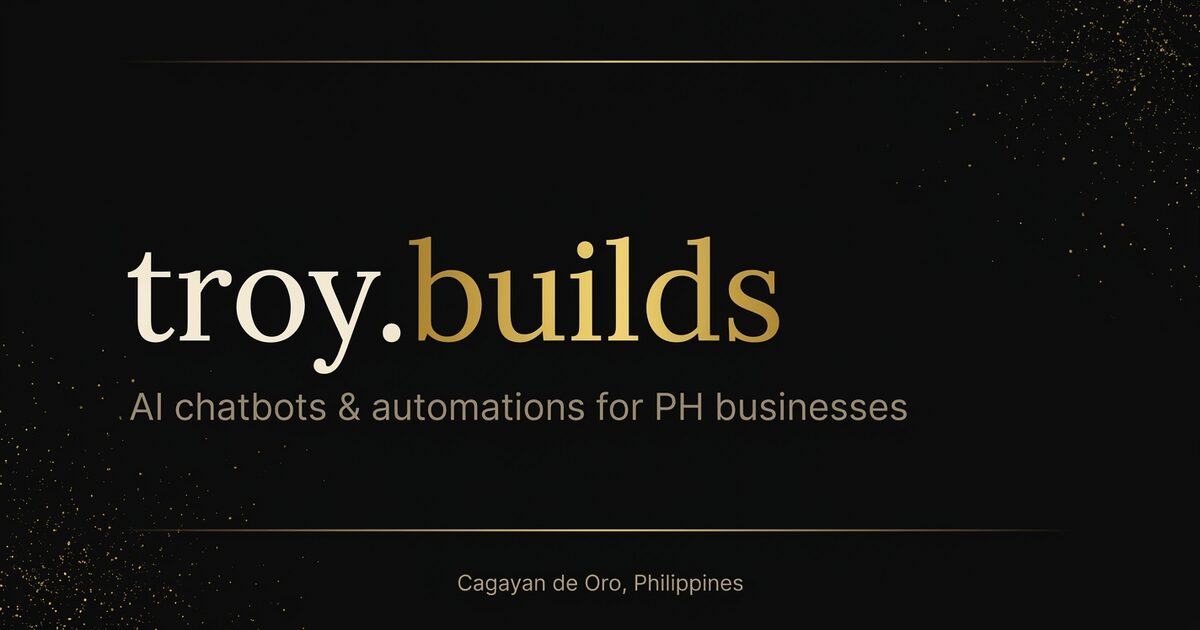
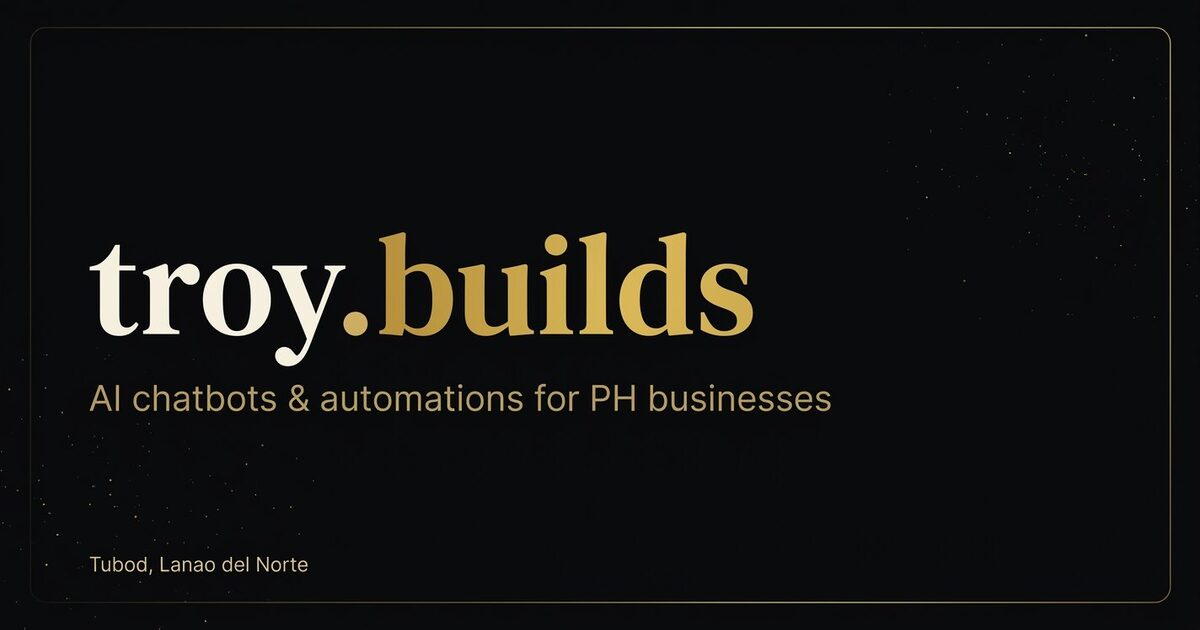
Move Troy's location from Cagayan de Oro to Tubod, LDN
Update the portfolio, demo shop, share card, and outreach copy so
everything says Tubod, Lanao del Norte instead of CDO.

diff --git a/index.html b/index.html
@@ -22,8 +22,8 @@
   <meta name="viewport" content="width=device-width, initial-scale=1.0" />
   <!-- TEACH: <title> + meta description = what people see on Google/FB shares -->
   <!-- ✏ EDIT ME: put your name here -->
-  <title>Troy — AI Automation & Video Editing | Cagayan de Oro</title>
-  <meta name="description" content="I build AI chatbots, business automations, and edit videos for local PH businesses. Based in Cagayan de Oro. GCash accepted." />
+  <title>Troy — AI Automation & Video Editing | Tubod, LDN</title>
+  <meta name="description" content="I build AI chatbots, business automations, and edit videos for local PH businesses. Based in Tubod, Lanao del Norte. GCash accepted." />
   <link rel="canonical" href="https://techtroyai.github.io/Automation/" />
   <meta name="theme-color" content="#0a0a0b" />
   <meta name="color-scheme" content="dark" />
@@ -31,12 +31,12 @@
   <link rel="apple-touch-icon" href="favicon.png" />
   <meta property="og:type" content="website" />
   <meta property="og:url" content="https://techtroyai.github.io/Automation/" />
-  <meta property="og:title" content="Troy — AI Automation & Video Editing | Cagayan de Oro" />
-  <meta property="og:description" content="I build AI chatbots, business automations, and edit videos for local PH businesses. Based in Cagayan de Oro. GCash accepted." />
+  <meta property="og:title" content="Troy — AI Automation & Video Editing | Tubod, LDN" />
+  <meta property="og:description" content="I build AI chatbots, business automations, and edit videos for local PH businesses. Based in Tubod, Lanao del Norte. GCash accepted." />
   <meta property="og:image" content="https://techtroyai.github.io/Automation/og.jpg" />
   <meta name="twitter:card" content="summary_large_image" />
-  <meta name="twitter:title" content="Troy — AI Automation & Video Editing | Cagayan de Oro" />
-  <meta name="twitter:description" content="I build AI chatbots, business automations, and edit videos for local PH businesses. Based in Cagayan de Oro. GCash accepted." />
+  <meta name="twitter:title" content="Troy — AI Automation & Video Editing | Tubod, LDN" />
+  <meta name="twitter:description" content="I build AI chatbots, business automations, and edit videos for local PH businesses. Based in Tubod, Lanao del Norte. GCash accepted." />
   <meta name="twitter:image" content="https://techtroyai.github.io/Automation/og.jpg" />
 
   <style>
@@ -259,7 +259,7 @@
     <!-- ✏ EDIT ME: your headline — say WHAT you do + WHO it's for -->
     <h1>I build <span class="gradient">AI chatbots & automations</span> for PH businesses 🤖</h1>
     <p>
-      Hi, I'm <b>Troy</b> — a 17-year-old builder from Cagayan de Oro.
+      Hi, I'm <b>Troy</b> — a 17-year-old builder from Tubod, LDN.
       I help shops & online sellers save hours every week with auto-reply chatbots,
       workflow automations, and scroll-stopping video edits. GCash accepted. 🇵🇭
     </p>
@@ -271,7 +271,7 @@
       <div class="stat"><b>🤖 AI</b><small>Chatbots & agents</small></div>
       <div class="stat"><b>⚡ Auto</b><small>n8n / Make workflows</small></div>
       <div class="stat"><b>🎬 Edits</b><small>Reels & TikTok</small></div>
-      <div class="stat"><b>📍 CDO</b><small>Cagayan de Oro, PH</small></div>
+      <div class="stat"><b>📍 LDN</b><small>Tubod, Lanao del Norte</small></div>
     </div>
   </header>
 
@@ -290,12 +290,12 @@
         <div class="chat-head">
           <div class="avatar">🧋</div>
           <div>
-            <b>MilkTea CDO</b>
+            <b>MilkTea Tubod</b>
             <small><span class="online">●</span> Online — replies instantly</small>
           </div>
         </div>
         <div class="chat-body" id="chatBody">
-          <div class="msg bot">Hi! Welcome to <b>MilkTea CDO</b> 🧋 We're open 'til 10 PM today!</div>
+          <div class="msg bot">Hi! Welcome to <b>MilkTea Tubod</b> 🧋 We're open 'til 10 PM today!</div>
           <div class="msg bot">Ask me anything — prices, location, or want to order? 👇</div>
         </div>
         <!-- ✏ EDIT ME: quick-reply buttons — change these to fit your demo shop -->
@@ -511,8 +511,8 @@
         <p>Nope. I set everything up on YOUR accounts, then send you a short video showing exactly what to click. If you can use Facebook, you can use what I build. Plus free chat support after delivery.</p>
       </details>
       <details class="reveal">
-        <summary>📍 Do I need to be in Cagayan de Oro?</summary>
-        <p>No! Everything is done online — chatbots, automations, and video edits all work remotely. CDO clients just get the bonus option of meeting up. I work with anyone in the Philippines.</p>
+        <summary>📍 Do I need to be in Tubod / LDN?</summary>
+        <p>No! Everything is done online — chatbots, automations, and video edits all work remotely. Tubod / LDN clients just get the bonus option of meeting up. I work with anyone in the Philippines.</p>
       </details>
       <details class="reveal">
         <summary>🛡 What if it doesn't work?</summary>
@@ -545,7 +545,7 @@
   <footer>
     <div class="container">
       <!-- The year below auto-updates via the tiny script at the bottom 👇 -->
-      © <span id="year">2026</span> Troy · Built by hand in Cagayan de Oro 🇵🇭 · Powered by kape ☕
+      © <span id="year">2026</span> Troy · Built by hand in Tubod, LDN 🇵🇭 · Powered by kape ☕
     </div>
   </footer>
 
@@ -582,12 +582,12 @@
     const BOT_RULES = [
       { keys: ["pila", "price", "menu", "cost", "how much", "tagpila", "presyo"], reply: "Here's our menu 🧋<br><br>• Classic Milk Tea — <b>₱75</b><br>• Okinawa / Wintermelon — <b>₱85</b><br>• Fruit Tea — <b>₱70</b><br>• +Pearls — <b>₱15</b><br><br>Want to order? Just say <b>order ko!</b> 😊" },
       { keys: ["open", "hour", "oras", "bukas", "close", "sarado", "what time"], reply: "We're open <b>MON–SUN, 10 AM – 10 PM</b> 🕐<br>Yes, open mi karon! What can I get you? 😊" },
-      { keys: ["location", "asa", "address", "where", "mapa", "direksyon"], reply: "Find us here 📍<br><b>Corrales Ave, Cagayan de Oro</b> (near Centrio Mall)<br><br>Landmark: beside Jollibee 😉 Open 'til 10 PM!" },
-      { keys: ["deliver", "hatod", "ship", "grab", "foodpanda", "padala"], reply: "Yes, ga-deliver mi! 🛵<br>• Within CDO city — <b>₱50</b> fee<br>• FREE delivery for orders <b>₱500+</b><br><br>Type <b>order ko</b> to start your order!" },
+      { keys: ["location", "asa", "address", "where", "mapa", "direksyon"], reply: "Find us here 📍<br><b>Poblacion, Tubod, Lanao del Norte</b> (near the Provincial Capitol)<br><br>Landmark: along the national highway 😉 Open 'til 10 PM!" },
+      { keys: ["deliver", "hatod", "ship", "grab", "foodpanda", "padala"], reply: "Yes, ga-deliver mi! 🛵<br>• Within Tubod / nearby LDN — <b>₱50</b> fee<br>• FREE delivery for orders <b>₱500+</b><br><br>Type <b>order ko</b> to start your order!" },
       { keys: ["order", "palit", "buy", "kuha", "pa-order"], reply: "Yay, order time! 🧋<br>Just send:<br><b>1.</b> Your order (e.g. 2x Okinawa)<br><b>2.</b> Name + address<br><br>I'll confirm your total + GCash number after! 💛" },
       { keys: ["gcash", "bayad", "pay", "payment"], reply: "We accept <b>GCash, Maya & Cash</b> 💰<br>GCash number is sent automatically with your order confirmation. Easy ra kaayo!" },
       { keys: ["salamat", "thank"], reply: "Walay sapayan! 💛 Anything else — menu, location, or ready to order?" },
-      { keys: ["hi", "hello", "hey", "kumusta", "maayong"], reply: "Hellooo! 👋 Welcome to <b>MilkTea CDO</b> 🧋<br>Ask me about <b>prices</b>, <b>hours</b>, <b>location</b> — or say <b>order ko!</b>" },
+      { keys: ["hi", "hello", "hey", "kumusta", "maayong"], reply: "Hellooo! 👋 Welcome to <b>MilkTea Tubod</b> 🧋<br>Ask me about <b>prices</b>, <b>hours</b>, <b>location</b> — or say <b>order ko!</b>" },
       { keys: ["tawo", "human", "staff", "owner", "admin"], reply: "Noted! A human will jump in soon 🙋<br>(This is how the bot hands over to the shop owner when needed — tricky customers never get lost!)" },
     ];
     const BOT_DEFAULT = "Hmm, I'm just a demo bot so I only know a few things 😅<br>Try asking about <b>prices</b>, <b>hours</b>, <b>location</b>, <b>delivery</b> — or say <b>order ko!</b> 🧋";

diff --git a/TUTORIAL.md b/TUTORIAL.md
@@ -118,7 +118,7 @@ Here's the checklist in order:
 
 ### 1. Your name & brand (2 mins)
 - `<title>` in `<head>` → your name
-- The `.logo` in `<nav>` → your brand (e.g. `troy.builds`, `cdobotguy`)
+- The `.logo` in `<nav>` → your brand (e.g. `troy.builds`, `tubodbotguy`)
 - Hero headline + intro paragraph → your real story
 
 ### 2. Your contact links (5 mins) — MOST IMPORTANT ⚠
@@ -143,7 +143,7 @@ In the `#work` section, rewrite the 3 project cards:
 Honesty rule: only claim what you can demo. One real demo > five fake claims.
 
 ### 4. Your prices (2 mins)
-The defaults (₱1,500 / ₱3,000 / ₱1,000-per-5-vids) are beginner-friendly CDO prices.
+The defaults (₱1,500 / ₱3,000 / ₱1,000-per-5-vids) are beginner-friendly LDN prices.
 Keep them until you have 3+ paying clients, then raise 30–50%.
 
 ### 5. (Optional) Your photo
@@ -232,8 +232,8 @@ Your portfolio is the *ammunition*. Now you need *targets*. Full scripts are in
 `outreach-scripts.md` — here's the summary:
 
 1. **Today:** portfolio live + FB Page created + join 3 FB groups
-   (`Online Jobs PH`, `CDO Buy and Sell`, `AI Automation Philippines`)
-2. **Day 2–3:** message 10 local CDO shops (food stalls, boutiques, resellers).
+   (`Online Jobs PH`, `LDN Buy and Sell`, `AI Automation Philippines`)
+2. **Day 2–3:** message 10 local Tubod / LDN shops (food stalls, boutiques, resellers).
    Script + Bisaya version in `outreach-scripts.md`. Attach your portfolio link.
 3. **Day 4–5:** post your service in the FB groups (template included).
 4. **First reply:** quote fixed price, ask 50% GCash downpayment, build, send demo
@@ -291,7 +291,7 @@ Ctrl+F 😄 — but visitors can't tell, because the replies are well-written.
 - `keys` = words that trigger this reply (lowercase, no need for exact sentences)
 - `reply` = what the bot says. HTML allowed (`<b>`, `<br>`) for bold + line breaks.
 
-**Change the demo shop** — right now it's "MilkTea CDO" because every CDO owner
+**Change the demo shop** — right now it's "MilkTea Tubod" because every LDN owner
 understands a milk tea shop. But you can reskin it: boutique? salon? burger stall?
 Just rewrite: the chat header name, the greeting bubbles, the 4 quick-reply buttons
 (`#quickRow`), and the `BOT_RULES` replies. 15 minutes, totally different demo.
@@ -333,4 +333,4 @@ a paying reason. 💰
 
 ---
 
-*Built for Troy · Cagayan de Oro 🇵🇭 · Questions? Re-read the section above — the answer is almost always there. You've got this, bro.* 💪
+*Built for Troy · Tubod, LDN 🇵🇭 · Questions? Re-read the section above — the answer is almost always there. You've got this, bro.* 💪

diff --git a/README.md b/README.md
@@ -1,7 +1,7 @@
 # Troy.Builds — AI Automation Portfolio 🖤💛
 
 > Personal portfolio of **Troy Candia**, an AI automation builder & video editor from
-> Cagayan de Oro, Philippines. Features a **live interactive chatbot demo**, service
+> Tubod, Lanao del Norte (LDN), Philippines. Features a **live interactive chatbot demo**, service
 > packages, transparent pricing, and a client-ready contact flow.
 
 [![Live Site](https://img.shields.io/badge/🌐_Live-techtroyai.github.io/Automation-d4af37?style=for-the-badge)](https://techtroyai.github.io/Automation/)
@@ -104,7 +104,7 @@ Every editable spot in `index.html` is marked with `✏ EDIT ME`. The essenti
 
 ## 👤 Author
 
-**Troy Candia** — Cagayan de Oro, Philippines 🇵🇭
+**Troy Candia** — Tubod, Lanao del Norte (LDN), Philippines 🇵🇭
 
 - 💬 Messenger: [m.me/TroyCandia](https://m.me/TroyCandia)
 - 📘 Facebook: [facebook.com/TroyCandia](https://facebook.com/TroyCandia)
@@ -118,4 +118,4 @@ This project is open source under the [MIT License](LICENSE) — feel free to fo
 
 ---
 
-<p align="center">Built by hand in Cagayan de Oro · Powered by kape ☕</p>
+<p align="center">Built by hand in Tubod, LDN · Powered by kape ☕</p>

diff --git a/gig-descriptions.md b/gig-descriptions.md
@@ -119,7 +119,7 @@
 
 > 🤖 **AI CHATBOT + AUTOMATION SERVICES for your business!**
 >
-> Hi everyone! I'm Troy from CDO. I help online sellers & local shops:
+> Hi everyone! I'm Troy from Tubod, LDN. I help online sellers & local shops:
 >
 > 💬 FB Page chatbots that auto-reply to customers 24/7 (never lose a sale while busy!)
 > ⚡ Automations (orders → Sheets, auto-posting, auto-invoices)
